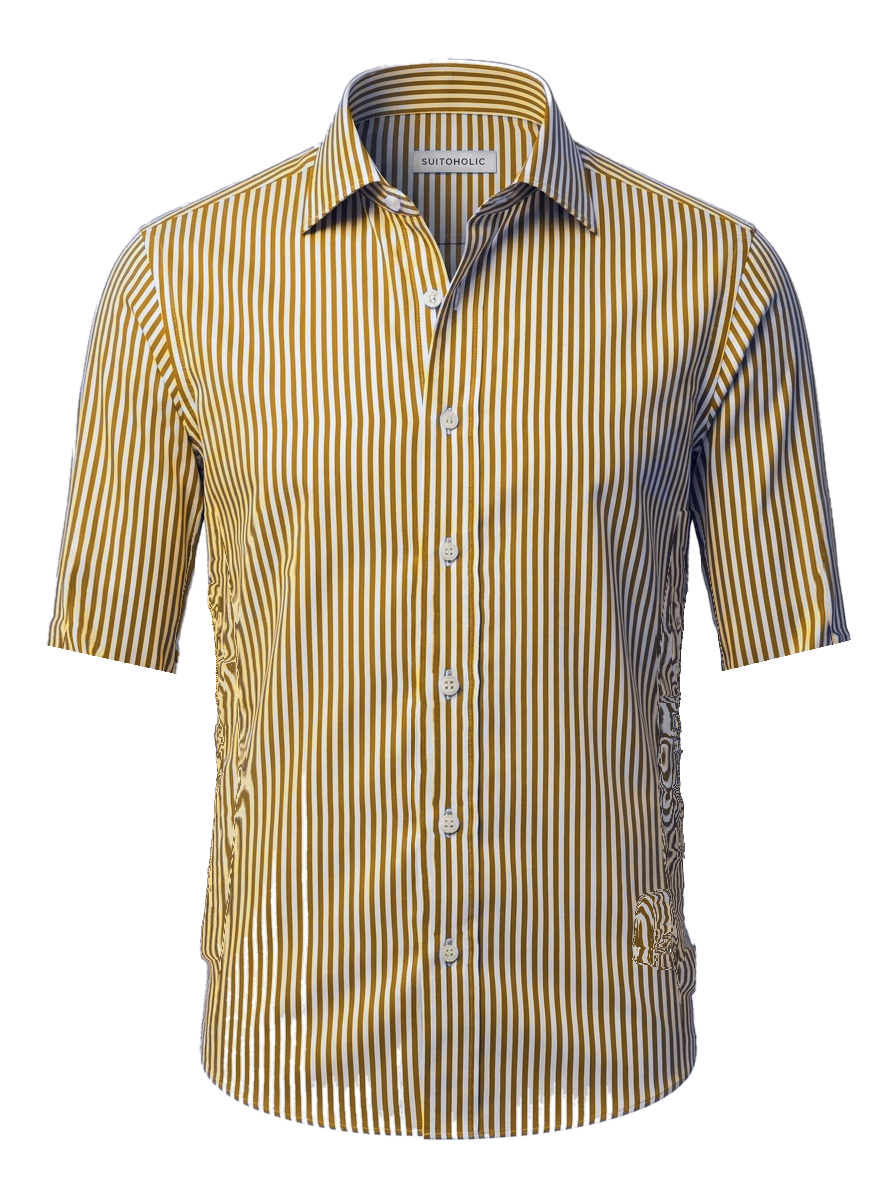
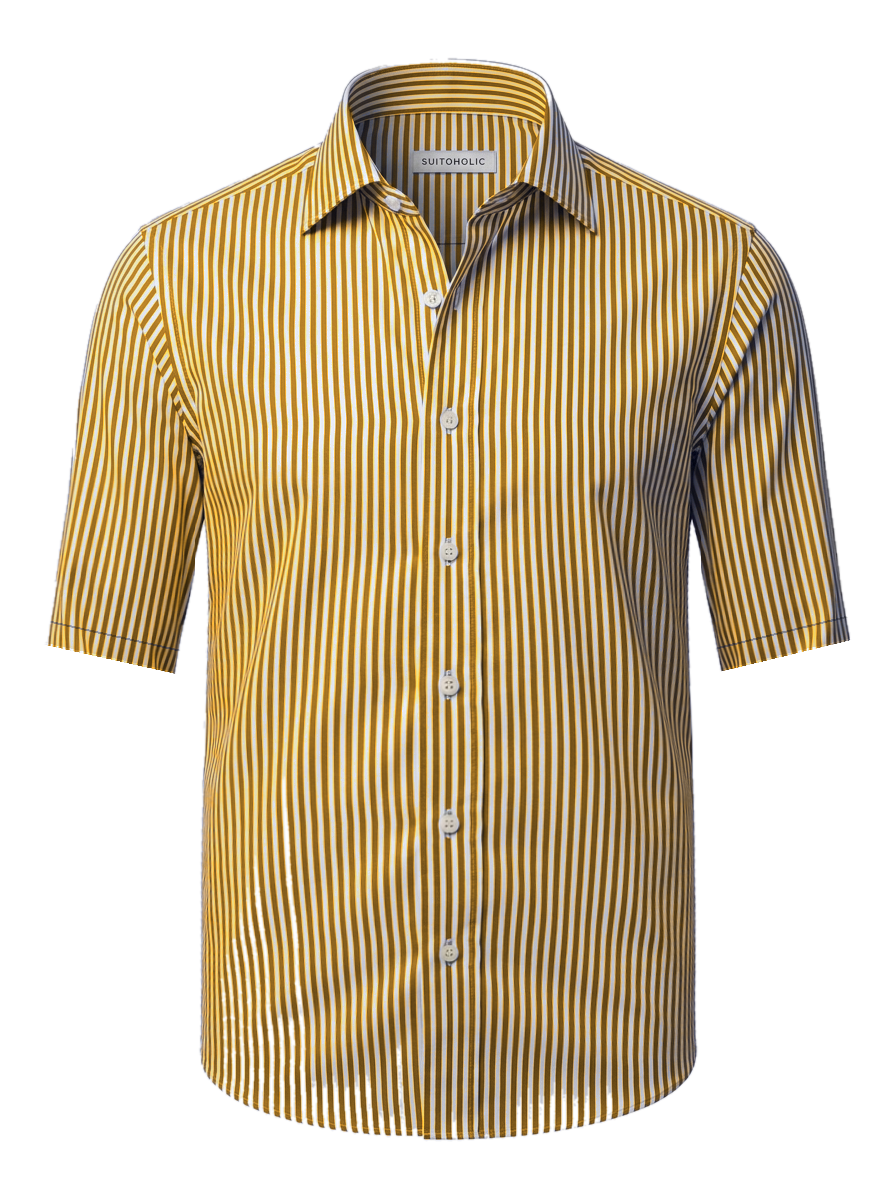
feat: add shirt customizer assets, components, and product seed data

Changed region(s): [[0.0312, 0.0308, 0.9688, 0.9558]]

diff --git a/src/components/MannequinShirtViewer.tsx b/src/components/MannequinShirtViewer.tsx
@@ -21,6 +21,7 @@ export interface MannequinShirtViewerProps {
 
 export type ShirtColorFamily =
   | "bengal_blue"
+  | "mustard_ochre_stripe"
   | "espresso"
   | "sandstone_linen"
   | "coral_stripe"
@@ -57,6 +58,7 @@ export function getShirtColorFamily(
   if (img.includes("shirt_15") || img.includes("rose") || img.includes("pink")) return "coral_stripe";
   if (img.includes("shirt_16") || img.includes("magenta") || img.includes("wine")) return "coral_stripe";
   if (img.includes("shirt_17") || img.includes("charcoal")) return "charcoal";
+  if (img.includes("mustard") || img.includes("ochre")) return "mustard_ochre_stripe";
   if (img.includes("shirt_18") || img.includes("sage") || img.includes("mint")) return "bengal_blue";
   if (img.includes("shirt_19") || img.includes("espresso") || img.includes("dark")) return "espresso";
   if (img.includes("shirt_20") || img.includes("navy")) return "bengal_blue";
@@ -66,18 +68,20 @@ export function getShirtColorFamily(
   if (img.includes("shirt_24") || img.includes("chocolate")) return "espresso";
   if (img.includes("shirt_25") || img.includes("steel") || img.includes("grey")) return "charcoal";
 
-  // 2. Specific Product Slugs
+  // 2. Specific Product Slugs (Specific colors FIRST before generic "bengal")
+  if (slug.includes("mustard") || slug.includes("ochre")) return "mustard_ochre_stripe";
+  if (slug.includes("terracotta") || slug.includes("coral") || slug.includes("rose") || slug.includes("magenta")) return "coral_stripe";
   if (slug.includes("espresso") || slug.includes("chocolate")) return "espresso";
   if (slug.includes("navy") || slug.includes("bengal") || slug.includes("azure") || slug.includes("royal")) return "bengal_blue";
   if (slug.includes("sandstone") || slug.includes("oatmeal") || slug.includes("linen") || slug.includes("beige")) return "sandstone_linen";
-  if (slug.includes("terracotta") || slug.includes("coral") || slug.includes("rose") || slug.includes("magenta")) return "coral_stripe";
   if (slug.includes("charcoal") || slug.includes("shadow") || slug.includes("steel")) return "charcoal";
 
-  // 3. Product Names
+  // 3. Product Names (Specific colors FIRST before generic "bengal")
+  if (name.includes("mustard") || name.includes("ochre")) return "mustard_ochre_stripe";
+  if (name.includes("coral") || name.includes("terracotta") || name.includes("rose") || name.includes("wine")) return "coral_stripe";
   if (name.includes("espresso") || name.includes("chocolate")) return "espresso";
   if (name.includes("bengal") || name.includes("azure") || name.includes("navy") || name.includes("royal")) return "bengal_blue";
   if (name.includes("sandstone") || name.includes("oatmeal") || name.includes("linen") || name.includes("beige")) return "sandstone_linen";
-  if (name.includes("coral") || name.includes("terracotta") || name.includes("rose") || name.includes("wine")) return "coral_stripe";
   if (name.includes("charcoal") || name.includes("shadow") || name.includes("grey")) return "charcoal";
 
   return "bengal_blue";
@@ -139,6 +143,7 @@ export function getShirtId(
   const slug = (product.slug || "").toLowerCase();
   const name = (product.name || "").toLowerCase();
 
+  if (slug.includes("mustard") || slug.includes("ochre") || name.includes("mustard") || name.includes("ochre")) return 49;
   if (slug.includes("terracotta") || slug.includes("brick") || name.includes("terracotta")) return 14;
   if (slug.includes("rose") || slug.includes("pastel") || name.includes("rose")) return 15;
   if (slug.includes("magenta") || slug.includes("wine") || name.includes("magenta")) return 16;
@@ -185,7 +190,8 @@ export function getMatchingShirtModel(
   product?: { id?: number | string; name?: string; image?: string; gallery?: string[]; slug?: string } | null,
   isHalfSleeve: boolean = false,
   bodyFit: "lean" | "regular" | "tummy" = "lean",
-  collarStyle: string = ""
+  collarStyle: string = "",
+  pocket: string = ""
 ): string {
   // 1. Central 100% color-consistent resolver
   const matchedFull = getMatchingFullShirtImage(product) || "/customizer/shirt_model_bengal_blue.png";
@@ -195,6 +201,19 @@ export function getMatchingShirtModel(
   if (!modelKey) {
     // If not a shirt_model_* PNG (e.g. full_shirt_15.png), return the matched full shirt
     return matchedFull;
+  }
+
+  // Exact 4-way pocket and sleeve pairing for coral_stripe (authentic master studio photography)
+  if (modelKey === "coral_stripe") {
+    const hasPocket = pocket === "pocket";
+    if (isHalfSleeve) {
+      return hasPocket
+        ? "/customizer/shirt_model_coral_stripe_half_pocket.png"
+        : "/customizer/shirt_model_coral_stripe_half.png";
+    }
+    return hasPocket
+      ? "/customizer/shirt_model_coral_stripe_pocket.png"
+      : "/customizer/shirt_model_coral_stripe.png";
   }
 
   // Check for collar-specific model variants (available for white and bengal_blue)
@@ -208,8 +227,8 @@ export function getMatchingShirtModel(
     collarKey = "spread";
   }
 
-  // Model-specific collar variants exist for white and bengal_blue
-  if ((modelKey === "white" || modelKey === "bengal_blue") && collarKey) {
+  // Model-specific collar variants exist for white, bengal_blue, and mustard_ochre_stripe
+  if ((modelKey === "white" || modelKey === "bengal_blue" || modelKey === "mustard_ochre_stripe") && collarKey) {
     if (bodyFit === "tummy") {
       return isHalfSleeve
         ? `/customizer/shirt_model_${modelKey}_half_tummy_${collarKey}.png`
@@ -308,7 +327,9 @@ export default function MannequinShirtViewer({
       "/customizer/shirt_model_sandstone_linen.png",
       "/customizer/shirt_model_sandstone_linen_half.png",
       "/customizer/shirt_model_coral_stripe.png",
+      "/customizer/shirt_model_coral_stripe_pocket.png",
       "/customizer/shirt_model_coral_stripe_half.png",
+      "/customizer/shirt_model_coral_stripe_half_pocket.png",
       "/customizer/shirt_model_espresso.png",
       "/customizer/shirt_model_espresso_half.png",
       "/customizer/shirt_model_charcoal.png",
@@ -327,14 +348,14 @@ export default function MannequinShirtViewer({
   // Multi-model precomputed mapping for all 6 combinations of sleeve and body fit
   const shirtModels = {
     full: {
-      lean: getMatchingShirtModel(product, false, "lean", collarStyle),
-      regular: getMatchingShirtModel(product, false, "regular", collarStyle),
-      tummy: getMatchingShirtModel(product, false, "tummy", collarStyle),
+      lean: getMatchingShirtModel(product, false, "lean", collarStyle, pocket),
+      regular: getMatchingShirtModel(product, false, "regular", collarStyle, pocket),
+      tummy: getMatchingShirtModel(product, false, "tummy", collarStyle, pocket),
     },
     half: {
-      lean: getMatchingShirtModel(product, true, "lean", collarStyle),
-      regular: getMatchingShirtModel(product, true, "regular", collarStyle),
-      tummy: getMatchingShirtModel(product, true, "tummy", collarStyle),
+      lean: getMatchingShirtModel(product, true, "lean", collarStyle, pocket),
+      regular: getMatchingShirtModel(product, true, "regular", collarStyle, pocket),
+      tummy: getMatchingShirtModel(product, true, "tummy", collarStyle, pocket),
     },
   };
 
@@ -450,8 +471,8 @@ export default function MannequinShirtViewer({
   // Dynamic precision height dimension line calculation:
   // Base shirt mannequin inside 400x480 container: Collar top apex Y = 23.4, Hem lowest curve apex Y = 456.4
   // The shirt div scales with transformOrigin "center 30%", corresponding to (200, 144) in 400x480 coordinates.
-  const collarBaseY = 23.4;
-  const hemBaseY = 456.4;
+  const collarBaseY = 23.2;
+  const hemBaseY = 456.0;
   const scaleOriginY = 144;
   const dynamicTopY = Math.round(scaleOriginY + (collarBaseY - scaleOriginY) * totalScaleY);
   const dynamicHemY = Math.round(scaleOriginY + (hemBaseY - scaleOriginY) * totalScaleY);
@@ -627,108 +648,7 @@ export default function MannequinShirtViewer({
                 })
               )}
 
-              {/* Bespoke Dress Shirt Chest Pocket (Viewer's Right / Wearer's Left Chest) */}
-              {pocket === "pocket" && (
-                <svg
-                  viewBox="0 0 400 480"
-                  className="absolute inset-0 w-full h-full pointer-events-none z-20 overflow-visible transition-all duration-300 animate-in fade-in zoom-in-95"
-                  aria-hidden="true"
-                >
-                  <defs>
-                    <filter id="pocketPatchShadow" x="-30%" y="-20%" width="160%" height="160%">
-                      <feDropShadow dx="1.0" dy="2.0" stdDeviation="2.2" floodColor="#000000" floodOpacity={isDarkShirt ? "0.5" : "0.34"} />
-                    </filter>
-                  </defs>
-
-                  <g filter="url(#pocketPatchShadow)">
-                    {/* 1. Pocket Body (subtle fabric luster layer) */}
-                    <path
-                      d="M 220 166 L 264 166 L 264 214 L 242 226 L 220 214 Z"
-                      fill={isDarkShirt ? "rgba(255, 255, 255, 0.04)" : "rgba(255, 255, 255, 0.08)"}
-                      stroke={isDarkShirt ? "rgba(255, 255, 255, 0.35)" : "rgba(20, 15, 10, 0.42)"}
-                      strokeWidth="1.1"
-                    />
-
-                    {/* 2. Top Folded Hem (8px band) */}
-                    <path
-                      d="M 220 166 L 264 166 L 264 174 L 220 174 Z"
-                      fill={isDarkShirt ? "rgba(255, 255, 255, 0.03)" : "rgba(0, 0, 0, 0.04)"}
-                    />
-                    {/* Top opening crease lines */}
-                    <line
-                      x1="220"
-                      y1="166"
-                      x2="264"
-                      y2="166"
-                      stroke={isDarkShirt ? "rgba(0, 0, 0, 0.85)" : "rgba(10, 5, 0, 0.85)"}
-                      strokeWidth="1.3"
-                    />
-                    <line
-                      x1="220"
-                      y1="167.2"
-                      x2="264"
-                      y2="167.2"
-                      stroke={isDarkShirt ? "rgba(255, 255, 255, 0.45)" : "rgba(255, 255, 255, 0.6)"}
-                      strokeWidth="0.7"
-                    />
-
-                    {/* Hem bottom fold seam line */}
-                    <line
-                      x1="220"
-                      y1="174"
-                      x2="264"
-                      y2="174"
-                      stroke={isDarkShirt ? "rgba(255, 255, 255, 0.25)" : "rgba(20, 15, 10, 0.35)"}
-                      strokeWidth="0.75"
-                    />
-                    {/* Hem single-needle topstitch (dashed) */}
-                    <line
-                      x1="222"
-                      y1="172.5"
-                      x2="262"
-                      y2="172.5"
-                      stroke={isDarkShirt ? "rgba(255, 255, 255, 0.7)" : "rgba(20, 12, 6, 0.7)"}
-                      strokeWidth="0.85"
-                      strokeDasharray="2.4 1.4"
-                    />
-
-                    {/* 3. Single-needle perimeter topstitching (1.8px inset) */}
-                    <path
-                      d="M 222 174 L 222 212.5 L 242 223.5 L 262 212.5 L 262 174"
-                      fill="none"
-                      stroke={isDarkShirt ? "rgba(255, 255, 255, 0.75)" : "rgba(20, 12, 6, 0.75)"}
-                      strokeWidth="0.9"
-                      strokeDasharray="2.4 1.4"
-                    />
-                    {/* Thread highlight under stitch */}
-                    <path
-                      d="M 222.5 174 L 222.5 212.8 L 242 224 L 261.5 212.8 L 261.5 174"
-                      fill="none"
-                      stroke={isDarkShirt ? "rgba(0, 0, 0, 0.5)" : "rgba(255, 255, 255, 0.5)"}
-                      strokeWidth="0.5"
-                      strokeDasharray="2.4 1.4"
-                    />
-
-                    {/* 4. Reinforced Corner Bar-Tacks */}
-                    <rect
-                      x="219.5"
-                      y="165"
-                      width="4"
-                      height="2.5"
-                      rx="0.6"
-                      fill={isDarkShirt ? "rgba(255, 255, 255, 0.85)" : "rgba(20, 12, 6, 0.85)"}
-                    />
-                    <rect
-                      x="260.5"
-                      y="165"
-                      width="4"
-                      height="2.5"
-                      rx="0.6"
-                      fill={isDarkShirt ? "rgba(255, 255, 255, 0.85)" : "rgba(20, 12, 6, 0.85)"}
-                    />
-                  </g>
-                </svg>
-              )}
+              {/* Authentic Studio Photography handles with-pocket and without-pocket models directly */}
             </div>
 
             {/* Step 4 Sleeve & Pocket Live Status Badge */}

diff --git a/src/components/CustomizationModal.tsx b/src/components/CustomizationModal.tsx
@@ -53,6 +53,9 @@ function getSuggestionThumbnail(p: any): string {
 
 function getShortShirtTitle(name: string): string {
   const n = (name || "").toUpperCase();
+  if (n.includes("MUSTARD") || n.includes("OCHRE")) return "Mustard Ochre Bengal Stripe";
+  if (n.includes("CORAL") && n.includes("BENGAL")) return "Coral Red Bold Bengal Stripe";
+  if (n.includes("CORAL") || n.includes("TERRACOTTA")) return "Coral Red Bengal Stripe";
   if (n.includes("WHITE") && (n.includes("OXFORD") || n.includes("PINPOINT"))) return "White Oxford";
   if (n.includes("TERRACOTTA") || n.includes("CORAL")) return "Terracotta Coral";
   if (n.includes("ESPRESSO") || n.includes("DARK")) return "Dark Espresso";
@@ -61,7 +64,8 @@ function getShortShirtTitle(name: string): string {
   if (n.includes("SKY") || n.includes("OXFORD")) return "Sky Blue Oxford";
   if (n.includes("SOLID") || (n.includes("MIDNIGHT") && n.includes("NAVY"))) return "Midnight Navy";
   if (n.includes("CHARCOAL") || n.includes("ANTHRACITE")) return "Charcoal Twill";
-  if (n.includes("PINSTRIPE") || n.includes("BENGAL") || n.includes("NAVY")) return "Navy Pinstripe";
+  if (n.includes("BENGAL") && (n.includes("BLUE") || n.includes("SOVEREIGN") || n.includes("ROYAL"))) return "Royal Steel Blue Stripe";
+  if (n.includes("PINSTRIPE") || n.includes("NAVY")) return "Navy Pinstripe";
   return name.replace(/FORMAL|SAVILE ROW/gi, "").trim();
 }
 
@@ -1447,7 +1451,11 @@ export default function CustomizationModal({
                             <div className="py-2.5 px-3 sm:py-3 sm:px-4 flex items-center gap-3 sm:gap-3.5">
                               <div className="w-[76px] h-[36px] sm:w-[86px] sm:h-[40px] md:w-[94px] md:h-[44px] rounded-[8px] overflow-hidden border border-[#DEC7B2] shrink-0 bg-[#F4EDE4] shadow-2xs">
                                 <img
-                                  src="/customizer/review_fabric_thumb.jpg?v=7"
+                                  src={
+                                    (activeItemName || productName || "").toUpperCase().includes("MUSTARD") || (activeItemName || productName || "").toUpperCase().includes("OCHRE")
+                                      ? "/api/media/49/suitoholic-mustard-ochre-bengal-stripe.jpg"
+                                      : (activeItem?.image || product?.image || "/customizer/review_fabric_thumb.jpg?v=7")
+                                  }
                                   alt={activeItemName || productName}
                                   className="w-full h-full object-cover"
                                 />
@@ -1469,7 +1477,9 @@ export default function CustomizationModal({
                                   src={getMatchingShirtModel(
                                     activeItem || product,
                                     customFit.sleeveType === "half",
-                                    (customFit.bodyFit || "regular") as "lean" | "regular" | "tummy"
+                                    (customFit.bodyFit || "regular") as "lean" | "regular" | "tummy",
+                                    customFit.collarStyle,
+                                    customFit.pocket
                                   )}
                                   alt="Size & Fit"
                                   className="w-full h-full object-contain"

diff --git a/src/data/products.ts b/src/data/products.ts
@@ -84,6 +84,31 @@ export const collectionCategories: CollectionCategory[] = [
 /** Exactly 8 unique canonical sister shirts matching the user's authentic catalog imagery */
 export const USER_CATALOG_SHIRTS: ProductItem[] = [
   {
+    id: 78,
+    slug: "mustard-ochre-bengal-striped-twill-shirt",
+    name: "MUSTARD OCHRE BENGAL STRIPED TWILL SHIRT",
+    category: "formal_stripes",
+    price: "₹ 2,800",
+    rawPrice: 2800,
+    compareAtPrice: 3800,
+    subtitle: "Commanding mustard ochre and alabaster Bengal stripe in superfine Giza Egyptian cotton twill",
+    description: "Tailored from bespoke 120s two-ply Egyptian Giza cotton twill, this mustard ochre Bengal striped shirt delivers a commanding sartorial presence. Featuring silky drape, breathable finish, and mother-of-pearl buttons.",
+    fabric: "100% Giza Egyptian Long-Staple Cotton Twill",
+    threadCount: "120s Two-Ply Superfine Twill",
+    collar: "Classic English Spread Collar",
+    cuff: "Dual-Use Mitred Single Cuff",
+    image: "/api/media/49/suitoholic-mustard-ochre-bengal-stripe.jpg",
+    gallery: [
+      "/api/media/49/suitoholic-mustard-ochre-bengal-stripe.jpg",
+      "/customizer/shirt_model_mustard_ochre_stripe.png",
+    ],
+    rating: 5.0,
+    reviewsCount: 124,
+    tag: "NEW ARRIVAL",
+    customizable: true,
+    featured: true,
+  },
+  {
     id: 52,
     slug: "royal-blue-classic-bengal-stripe-twill-shirt",
     name: "ROYAL STEEL BLUE SOVEREIGN SHIRT",
